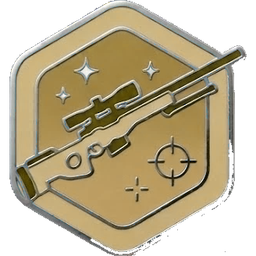
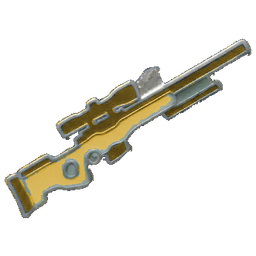
feat: swap badge art for the frameless pins and give them a hairline hexagon
사용자가 틀 없는 핀 사진을 새로 줬다. 그림만 있으니 같은 칸에서 총·사람·독이
훨씬 크게 들어간다 — 앞 판은 육각 틀이 자리를 다 먹어 그림이 안 보였다.

- 사진에서 연결 요소로 그림 셋을 각각 떼어냈다(가로로 자르면 그림자와 옆
  그림까지 딸려온다)
- 민트 에나멜만 금색으로 옮기고 은색 테두리·빨간 과녁은 그대로 뒀다
- 육각 테두리는 다시 넣되 머리카락 두께다. vectorEffect 로 뱃지를 키워도 선은
  1px 그대로라, 작은 칸에서 틀이 굵어 보이지 않는다
- 크기를 키웠다: 표 1.7em → 2.2em, 클랜원 상세 2.6rem → 3.4rem

diff --git a/components/badges/BadgePin.tsx b/components/badges/BadgePin.tsx
@@ -4,40 +4,71 @@ import { BADGE_COPY, BADGE_IMAGE } from './badgeCatalog';
 import { BadgeTooltip } from './BadgeTooltip';
 
 /**
- * 그림 한 장짜리 뱃지 — 마우스를 올리면 설명표가 위로 뜬다.
+ * 뱃지 하나 — 아주 얇은 육각 테두리 안에 그림, 올리면 설명표.
  *
- * 틀(육각형 같은 것)은 씌우지 않는다. 뱃지 그림 자체가 이미 한 덩어리라,
- * 바깥에 틀을 한 겹 더 두르면 22px 짜리 칸에서 정작 그림이 작아져 안 보인다.
+ * 테두리는 머리카락 두께다(어느 크기에서든 1px). 두꺼운 틀을 씌웠더니 22px
+ * 칸에서 틀이 자리를 다 먹고 정작 그림이 안 보였다 — 틀은 "여기까지가 뱃지
+ * 하나"만 말해주면 되고, 자리는 그림에 내준다.
+ *
+ * 그림은 육각형 폭의 72% 로 넣는다. 더 키우면 대각선 모서리에서 그림이 테두리를
+ * 뚫고, 더 줄이면 틀만 큼직하고 그림이 작아진다.
  */
+const HEX_POINTS = '50,1.5 93.5,26.2 93.5,73.8 50,98.5 6.5,73.8 6.5,26.2';
+
 export interface BadgePinProps {
   badge: PlaystyleBadgeKind;
-  /** 뱃지 크기. 글자 크기에 맞추고 싶으면 '1.7em' 같은 값도 된다. */
+  /** 뱃지 한 변(=육각형 높이). 글자 크기에 맞추려면 '2em' 같은 값도 된다. */
   size?: string;
   /** 설명표 맨 아래 줄 — 이 뱃지를 왜 받았는지. */
   detail?: ReactNode;
 }
 
-export function BadgePin({ badge, size = '1.7em', detail }: BadgePinProps) {
+export function BadgeArtwork({ badge, size }: { badge: PlaystyleBadgeKind; size: string }) {
+  return (
+    <span
+      className="relative inline-flex shrink-0 items-center justify-center"
+      style={{ height: size, width: size }}
+    >
+      <svg viewBox="0 0 100 100" className="absolute inset-0 h-full w-full" aria-hidden="true">
+        {/* vectorEffect 덕분에 뱃지를 키워도 선은 1px 그대로다 — 작은 칸에서
+            테두리가 굵어 보이지 않게 하려는 것. */}
+        <polygon
+          points={HEX_POINTS}
+          fill="none"
+          stroke="rgba(255,211,101,0.45)"
+          strokeWidth="1"
+          vectorEffect="non-scaling-stroke"
+          strokeLinejoin="round"
+        />
+      </svg>
+      {/* eslint-disable-next-line @next/next/no-img-element -- 목록 안 작은 아이콘이라 next/image 의 최적화가 이득이 없다 */}
+      <img
+        src={BADGE_IMAGE[badge]}
+        alt=""
+        aria-hidden="true"
+        className="relative"
+        style={{ height: '72%', width: '72%', objectFit: 'contain' }}
+      />
+    </span>
+  );
+}
+
+export function BadgePin({ badge, size = '2.2em', detail }: BadgePinProps) {
   const copy = BADGE_COPY[badge];
-  const src = BADGE_IMAGE[badge];
 
   return (
     <span
       className="group relative inline-flex w-fit shrink-0 items-center justify-center"
       data-testid={`badge-pin-${badge}`}
     >
-      {/* eslint-disable-next-line @next/next/no-img-element -- 목록 안 작은 아이콘이라 next/image 의 최적화가 이득이 없다 */}
-      <img src={src} alt="" aria-hidden="true" style={{ height: size, width: 'auto' }} />
+      <BadgeArtwork badge={badge} size={size} />
 
       <BadgeTooltip
         testId={`badge-tooltip-${badge}`}
         name={copy.name}
         description={copy.description}
         detail={detail}
-        artwork={
-          // eslint-disable-next-line @next/next/no-img-element -- 위와 같은 이유
-          <img src={src} alt="" aria-hidden="true" className="h-12 w-12" />
-        }
+        artwork={<BadgeArtwork badge={badge} size="3rem" />}
       />
     </span>
   );

diff --git a/components/dashboard/TierRankingPodium.tsx b/components/dashboard/TierRankingPodium.tsx
@@ -855,7 +855,7 @@ export function TierRankingPodium({
                           />
                           <PlaystyleBadges
                             holders={playstyleBadges?.get(member.memberId) ?? []}
-                            size="1.7em"
+                            size="2.2em"
                           />
                         </div>
                       </>
@@ -1038,7 +1038,7 @@ export function TierRankingPodium({
                           />
                           <PlaystyleBadges
                             holders={playstyleBadges?.get(member.memberId) ?? []}
-                            size="1.7em"
+                            size="2.2em"
                           />
                         </span>
                         <span className="text-right tabular-nums">

diff --git a/app/members/[memberId]/page.tsx b/app/members/[memberId]/page.tsx
@@ -138,7 +138,7 @@ export default async function MemberDetailPage({
           {/* 내전우승(기록) 다음에 별명 뱃지가 온다 — 둘 다 이름 아래 한 덩어리로
               읽히는 자리지만, 우승은 성적이고 이쪽은 스타일이라 줄을 나눈다. */}
           <div className="mt-3 flex justify-center gap-2">
-            <PlaystyleBadges holders={playstyleBadges.get(member.id) ?? []} size="2.6rem" />
+            <PlaystyleBadges holders={playstyleBadges.get(member.id) ?? []} size="3.4rem" />
           </div>
 
           {/* 숫자를 먼저 보고 6각형으로 넘어가는 흐름 — 대시보드가 6각형 위에 온다. */}
